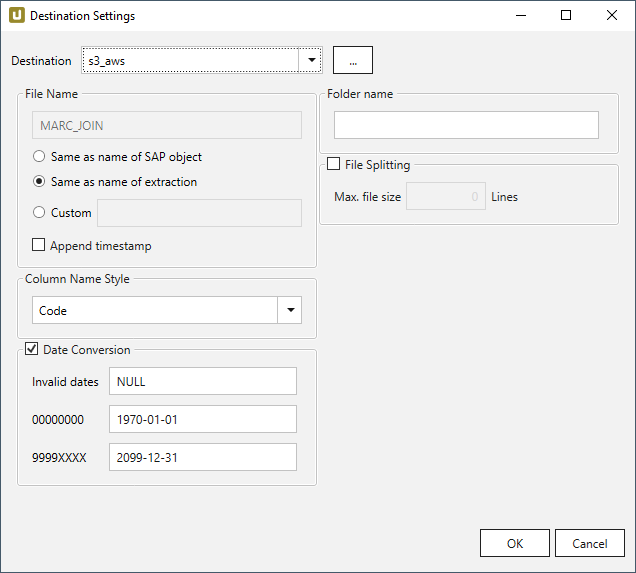
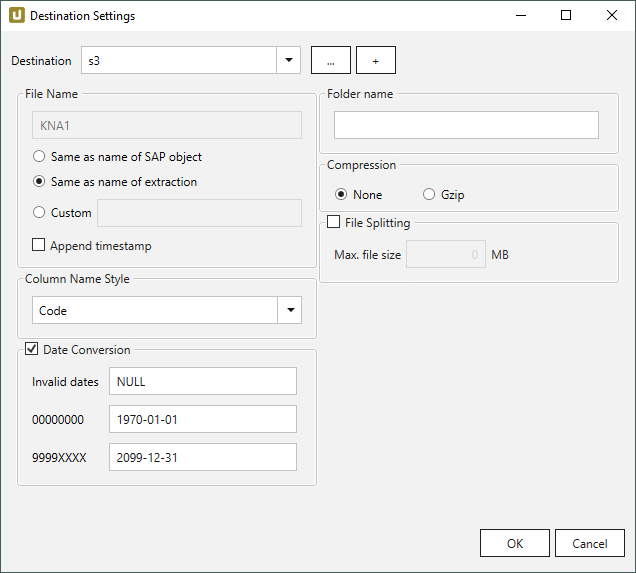
XU cloud destinations: compression

diff --git a/content/_de/xtract-universal/destinationen/azure-storage.md b/content/_de/xtract-universal/destinationen/azure-storage.md
@@ -238,13 +238,7 @@ Unterordner werden ebenfalls unterstützt und können wie folgt eingegeben werde
 
 Anstatt eines festen Verzeichnisses, kann der Verzeichnispfad mithilfe von [Skript-Ausdrücken](./../fortgeschrittene-techniken/script-ausdruecke#definierte-eigenschaften) definiert werden. Dabei wird der Verzeichnispfad dynamisch beim Ausführen der Extraktion ermittelt. <br>
 
-### Compression
-
-**None**<br>
-Die Daten werden unkomprimiert übertragen und als csv-Datei abgelegt.
-
-**gzip**<br>
-Die Daten werden komprimiert übertragen und  als gz-Datei abgelegt. 
+{% include _content/de/xu-specific/destinationen/general/compression.md %}
 
 {% include _content/de/xu-specific/destinationen/general/file-splitting.md %}
 

diff --git a/content/_en/xtract-universal/destinations/azure-storage.md b/content/_en/xtract-universal/destinations/azure-storage.md
@@ -244,13 +244,7 @@ Subfolders are supported and can be defined using the following syntax: `[folder
 
 This field allows entry of [script expressions](../advanced-techniques/script-expressions#using-script-expressions-as-dynamic-folder-paths). This way, a folder path can be dynamically determined at extraction execution. <br>
 
-### Compression
-
-**None**<br>
-The data is transferred uncompressed and stored as a csv file.
-
-**gzip**<br>
-The data is transferred compressed and stored as a gz file. 
+{% include _content/en/xu-specific/destinations/general/compression.md %}
 
 {% include _content/en/xu-specific/destinations/general/file-splitting.md %}
 

diff --git a/content/_de/xtract-universal/destinationen/google-cloud-storage.md b/content/_de/xtract-universal/destinationen/google-cloud-storage.md
@@ -191,12 +191,6 @@ Um Extraktionsdaten an einen Speicherort innerhalb eines bestimmten Ordners in e
 Unterordner werden unterstützt und können mit der folgenden Syntax definiert werden: 
 `[Verzeichnis]/[Unterverzeichnis_1]/[Unterverzeichnis_2]/…`
 
-### Compression
-
-**None**<br>
-Die Daten werden unkomprimiert übertragen und als csv-Datei abgelegt.
-
-**gzip**<br>
-Die Daten werden komprimiert übertragen und  als gz-Datei abgelegt. 
+{% include _content/de/xu-specific/destinationen/general/compression.md %}
 
 {% include _content/de/xu-specific/destinationen/general/file-splitting.md %}

diff --git a/content/_de/xtract-universal/destinationen/amazon_aws_s3.md b/content/_de/xtract-universal/destinationen/amazon_aws_s3.md
@@ -165,4 +165,6 @@ Unterordner werden ebenfalls unterstützt und können wie folgt eingegeben werde
 Anstatt eines festen Verzeichnisses, kann der Verzeichnispfad mithilfe von [Skript-Ausdrücken](../fortgeschrittene-techniken/script-ausdruecke#skript-ausdrücke-als-dynamische-ordnerpfade-verwenden) definiert werden. 
 Dabei wird der Verzeichnispfad dynamisch beim Ausführen der Extraktion ermittelt.
 
+{% include _content/de/xu-specific/destinationen/general/compression.md %}
+
 {% include _content/de/xu-specific/destinationen/general/file-splitting.md %}

diff --git a/content/_en/xtract-universal/destinations/google-cloud-storage.md b/content/_en/xtract-universal/destinations/google-cloud-storage.md
@@ -196,12 +196,6 @@ To write extraction data to a location within a specific folder in a Google Clou
 Subfolders are supported and can be defined using the following syntax: 
 `[folder]/[subfolder_1]/[subfolder_2]/…`
 
-### Compression
-
-**None**<br>
-The data is transferred uncompressed and stored as a csv file.
-
-**gzip**<br>
-The data is transferred compressed and stored as a gz file. 
+{% include _content/en/xu-specific/destinations/general/compression.md %}
 
 {% include _content/en/xu-specific/destinations/general/file-splitting.md %}

diff --git a/content/_de/xtract-universal/destinationen.md b/content/_de/xtract-universal/destinationen.md
@@ -83,8 +83,6 @@ Folgende Destinationen sind Pull-Destinationen:
 - Power BI connector
 - OData Webservice 
 
-Sofern die Zielumgebung http-Datenkomprimierung via gzip unterstützt, sendet Xtract Universal die Daten als gzip komprimierten http stream.
-
 #### Push-Destinationen
 
 Extraktionen mit Push-Destinationen liefern Daten proaktiv in die Zielumgebung. Der Extraktionsprozess wird in Xtract Universal gestartet, z.B. durch einen [Scheduler](./extraktionen-ausfuehren-und-einplanen/call-via-scheduler).<br>

diff --git a/content/_en/xtract-universal/destinations/amazon-aws-s3.md b/content/_en/xtract-universal/destinations/amazon-aws-s3.md
@@ -164,4 +164,6 @@ Subfolders are also supported and can be entered as follows: `Folder/Subfolder1/
 This field allows entry of [script expressions](../advanced-techniques/script-expressions#using-script-expressions-as-dynamic-folder-paths). 
 This way, a folder path can be dynamically determined at extraction execution.
 
+{% include _content/en/xu-specific/destinations/general/compression.md %}
+
 {% include _content/en/xu-specific/destinations/general/file-splitting.md %}

diff --git a/_includes/_content/de/xu-specific/destinationen/general/compression.md b/_includes/_content/de/xu-specific/destinationen/general/compression.md
@@ -1,0 +1,12 @@
+
+### Compression
+
+
+**None**<br>
+Die Daten werden unkomprimiert übertragen und als csv-Datei abgelegt.
+
+**gzip**<br>
+Die Daten werden komprimiert übertragen und  als gz-Datei abgelegt. 
+
+{: .box-note }
+**Hinweis:** Diese Option ist nur für das csv-Dateiformat verfügbar, siehe [Verbindung: File Format](#file-format).

diff --git a/_includes/_content/en/xu-specific/destinations/general/compression.md b/_includes/_content/en/xu-specific/destinations/general/compression.md
@@ -1,0 +1,10 @@
+### Compression
+
+**None**<br>
+The data is transferred uncompressed and stored as a csv file.
+
+**gzip**<br>
+The data is transferred compressed and stored as a gz file. 
+
+{: .box-note }
+**Note:** This option is only available for the csv file format, see [Connection: File Format](#file-format).

diff --git a/content/_en/xtract-universal/destinations.md b/content/_en/xtract-universal/destinations.md
@@ -83,7 +83,6 @@ These include the following destinations:
 - Power BI connector
 - OData web service
 
-If the destination supports the gzip http data compression, Xtract Universal will send the data to the destination client in a gzip compressed format.
 
 #### Push Destinations
 
